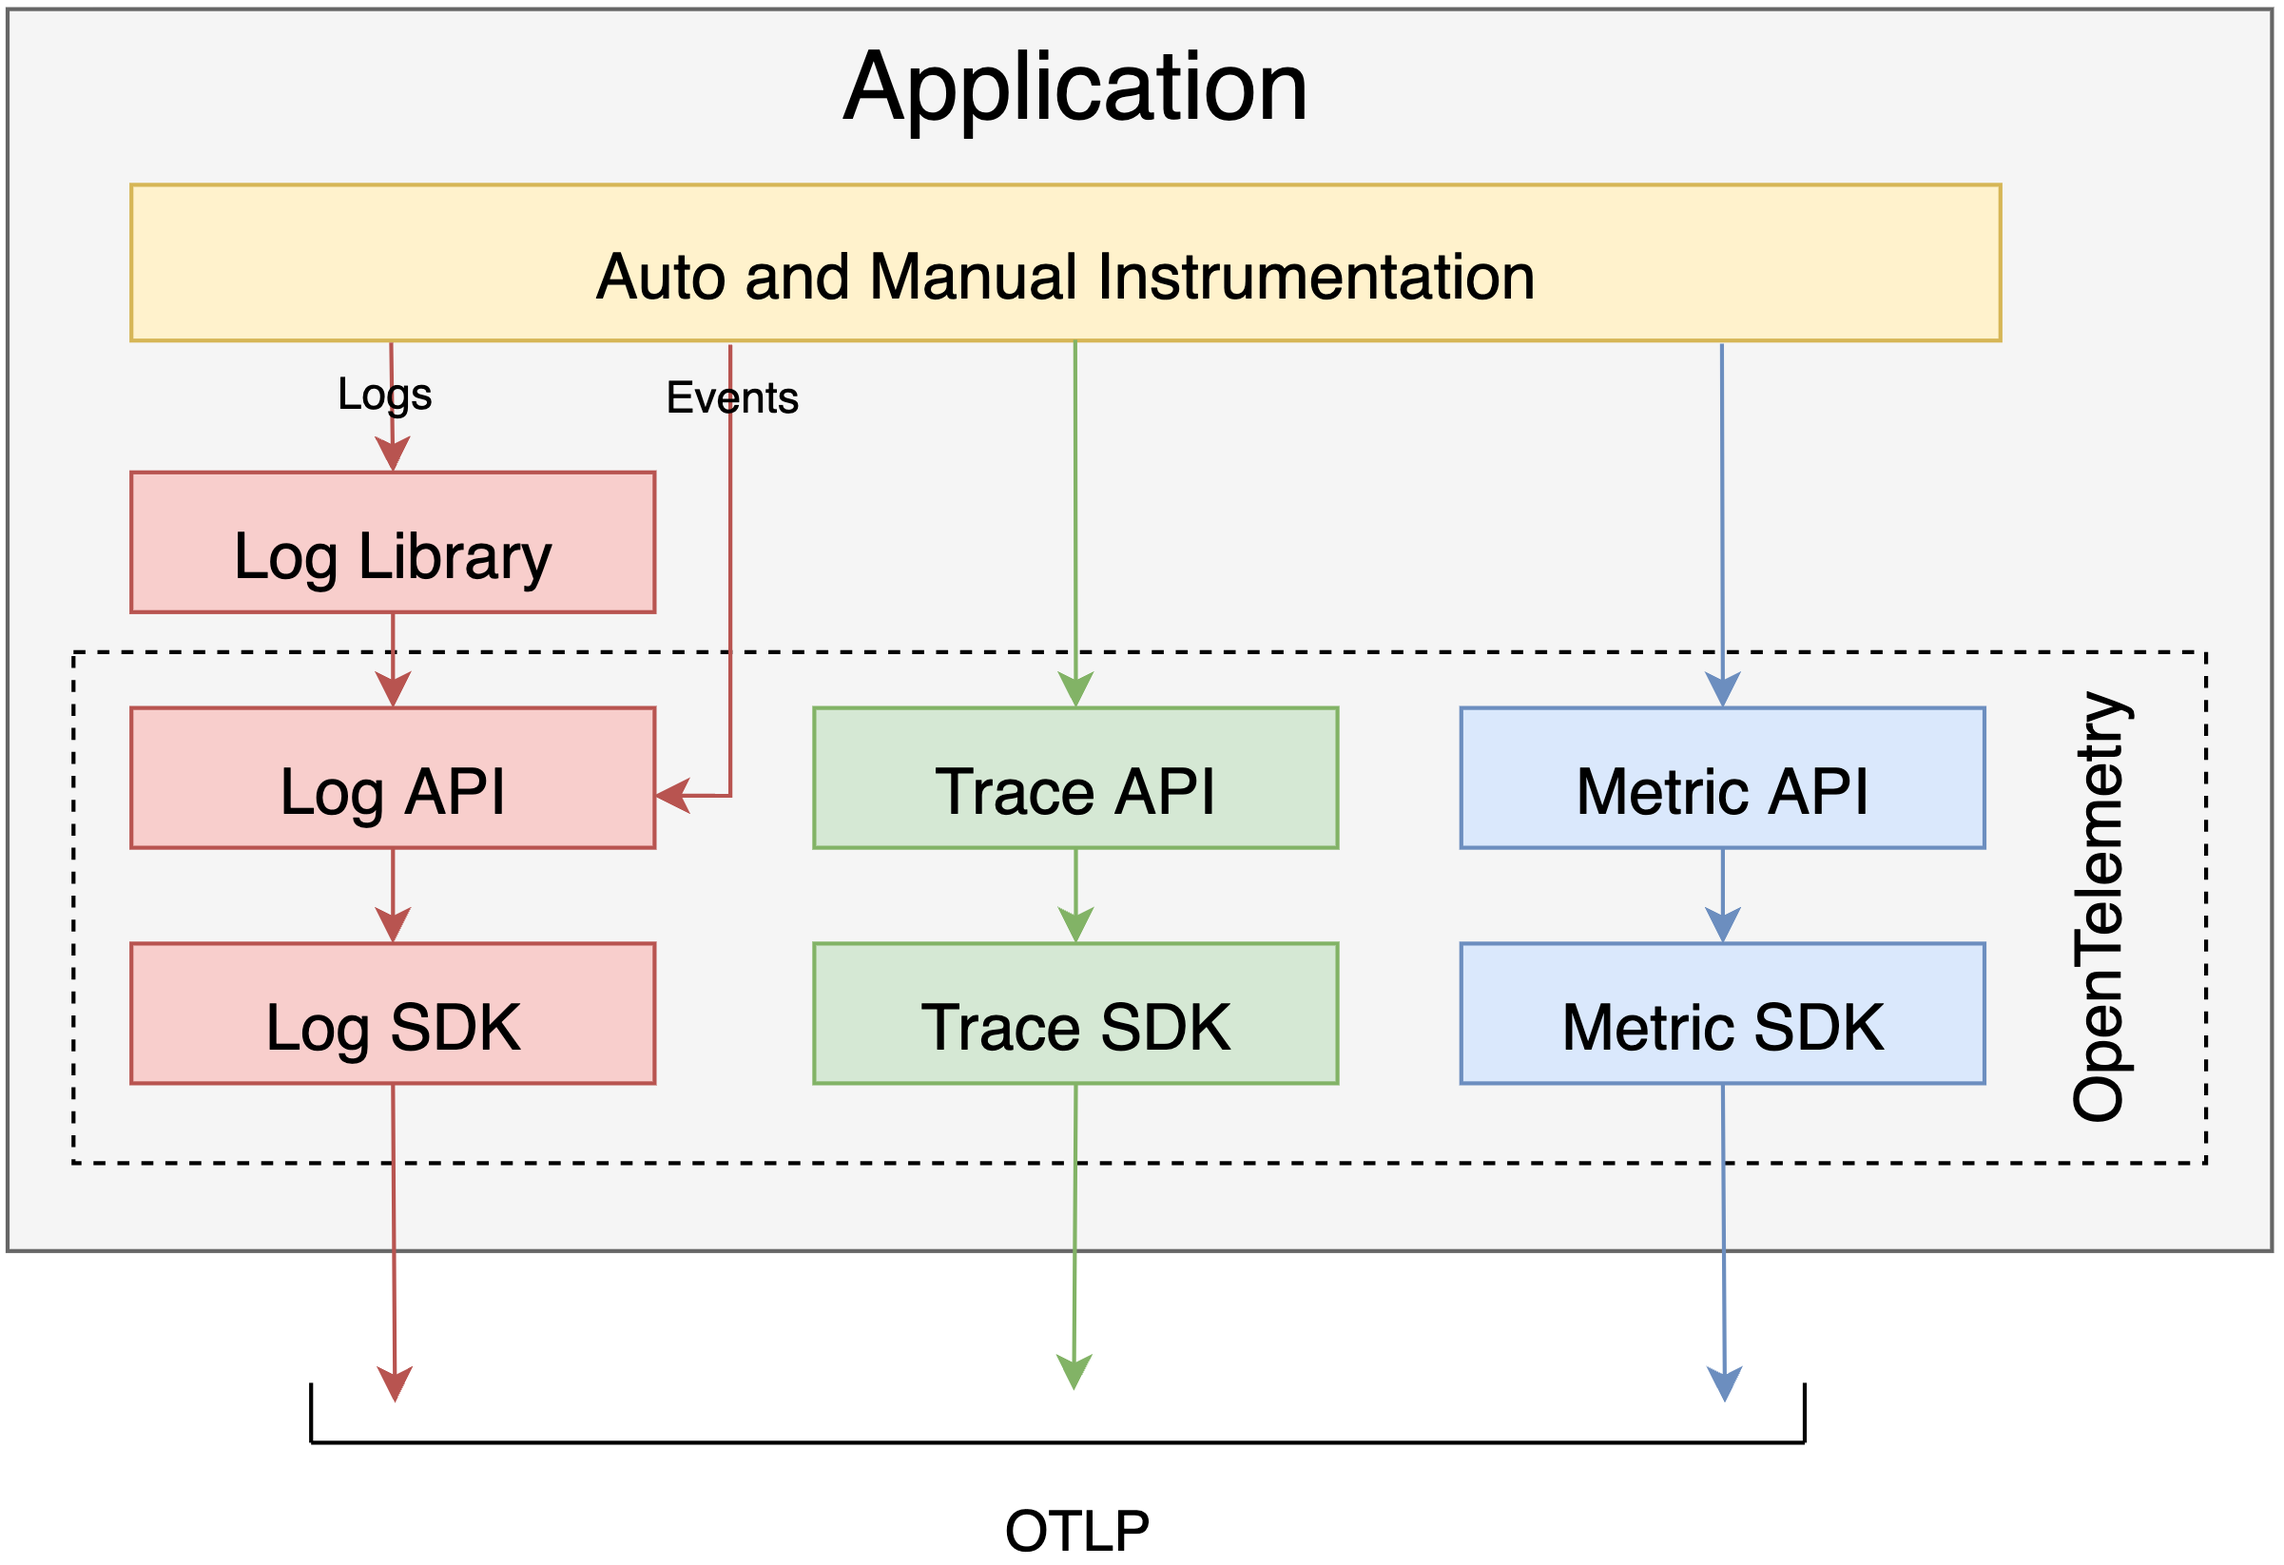
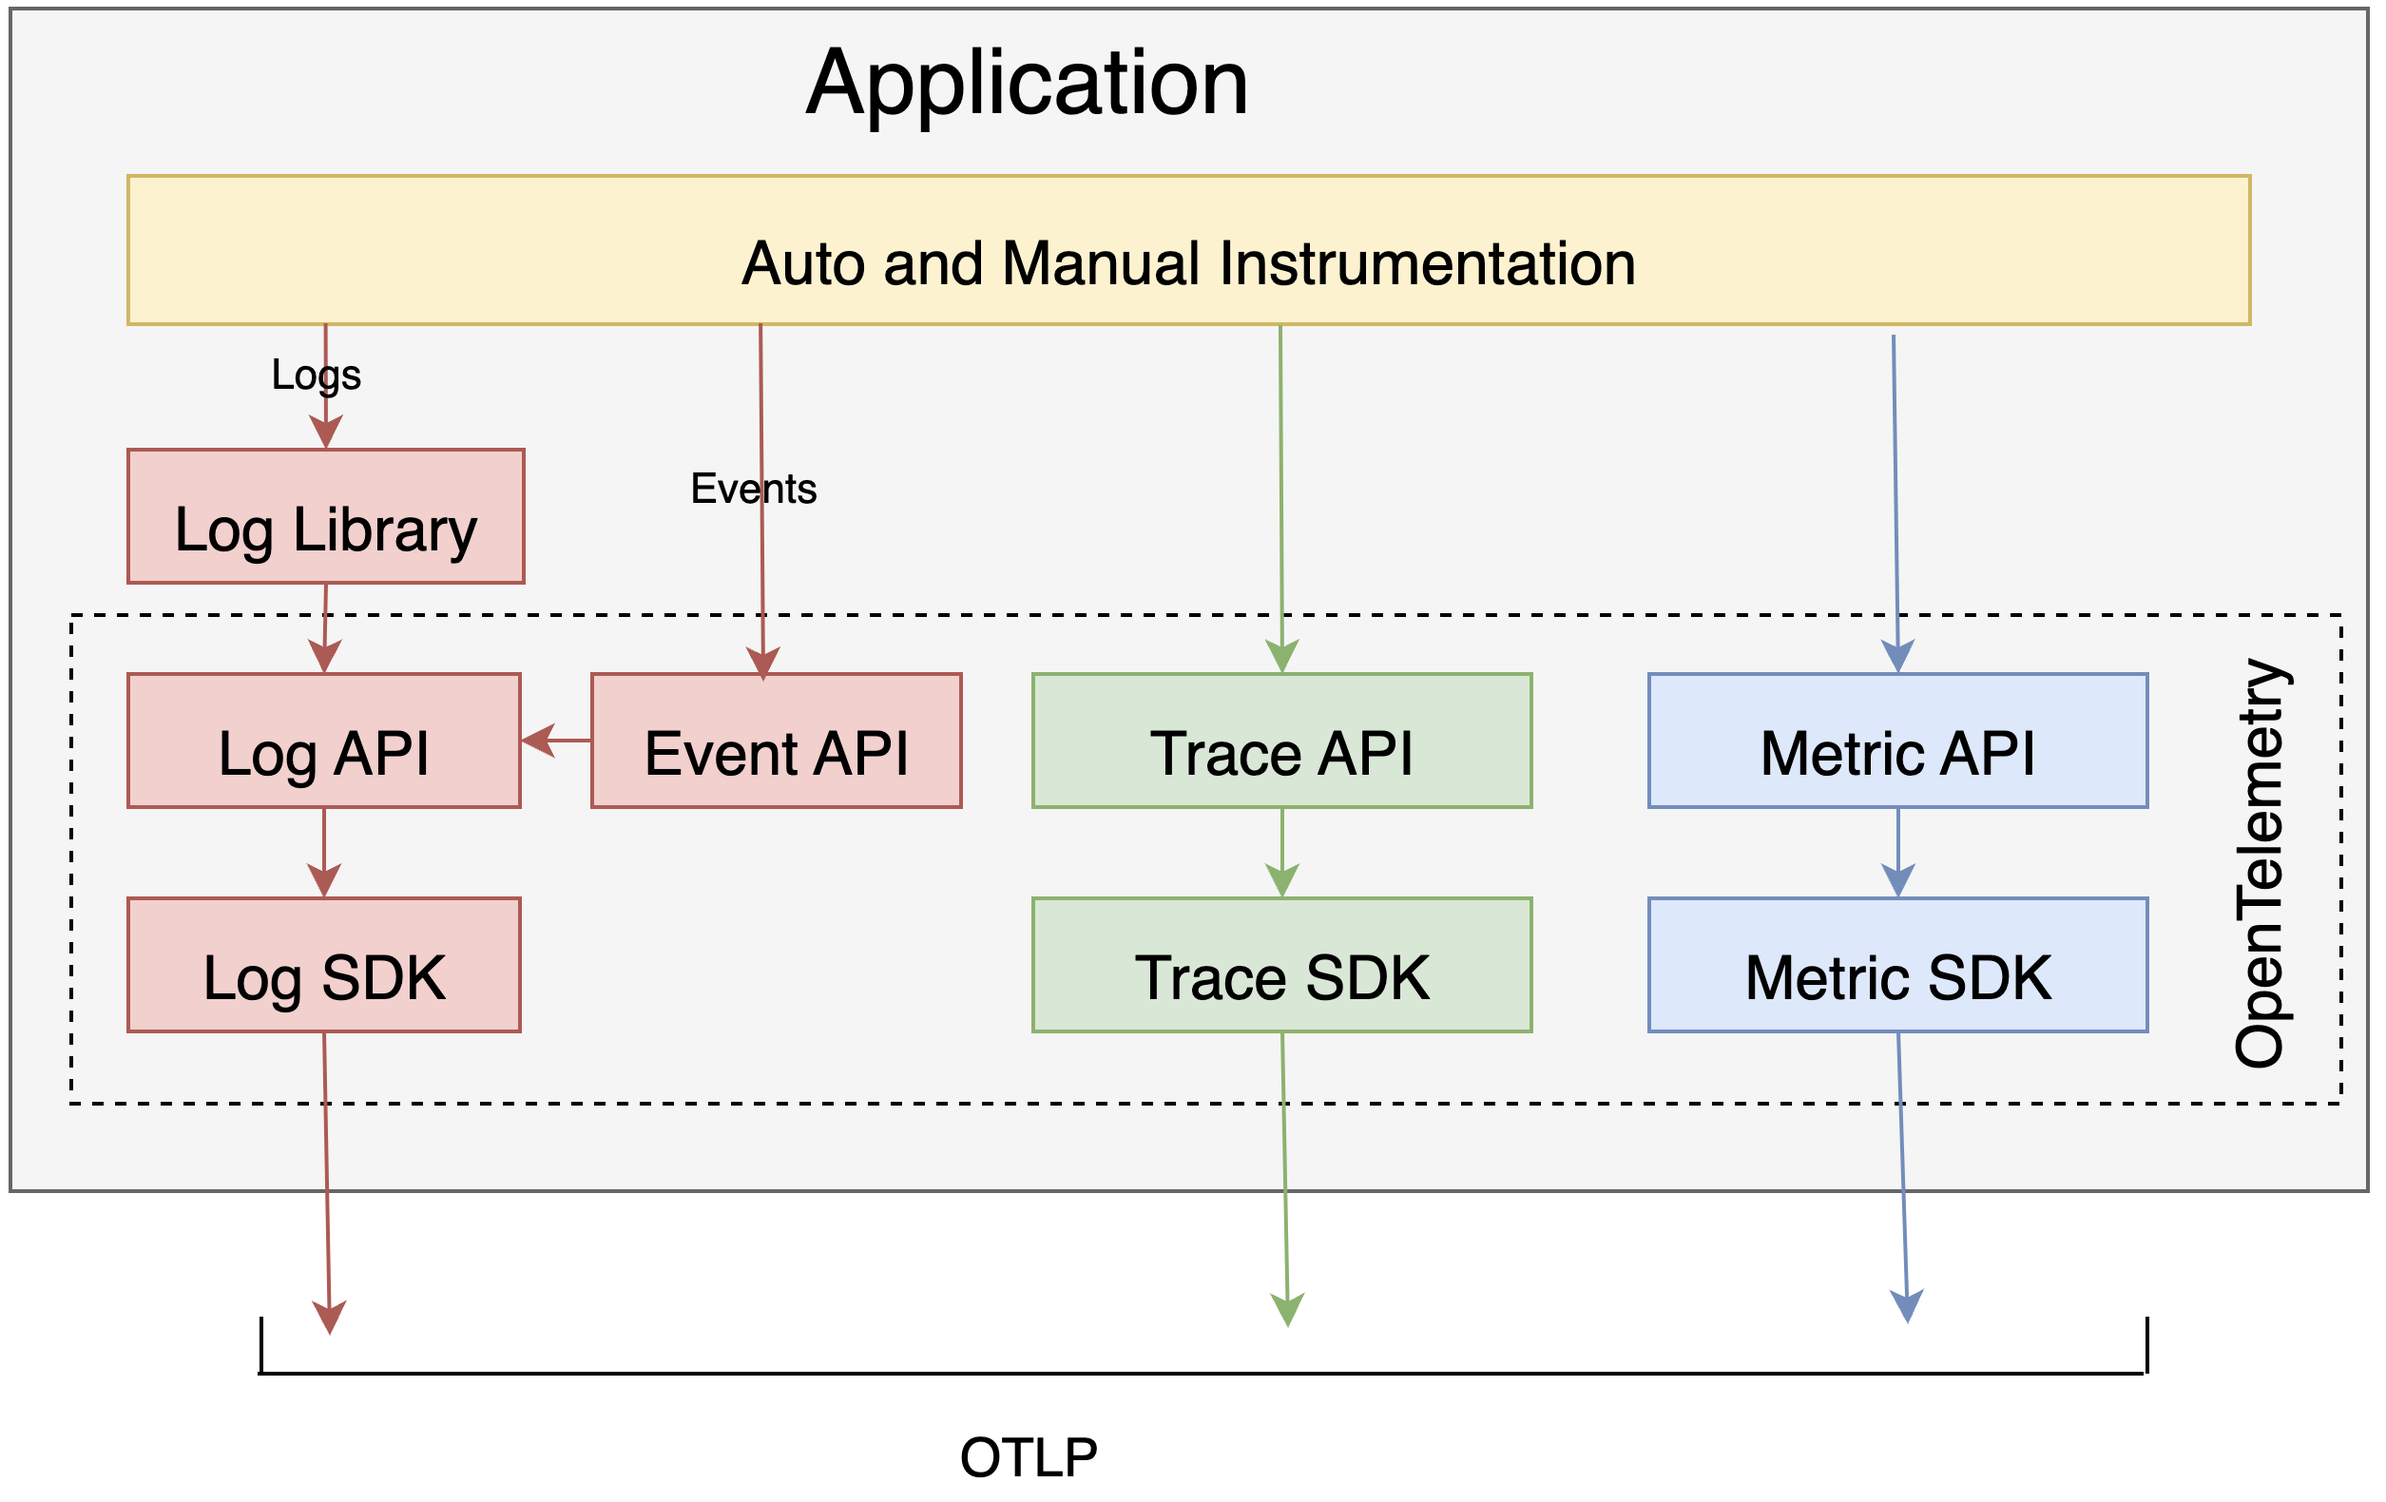
Split out Event API from Log API (#2941)
Resolves #2917.

Depends on #2940.

diff --git a/specification/logs/api.md b/specification/logs/api.md
@@ -1,4 +1,4 @@
-# Events and Logs API Interface
+# Logs API Interface
 
 **Status**: [Experimental](../document-status.md)
 
@@ -14,7 +14,6 @@
     + [Get a Logger](#get-a-logger)
 - [Logger](#logger)
   * [Logger operations](#logger-operations)
-    + [Emit Event](#emit-event)
     + [Emit LogRecord](#emit-logrecord)
 - [LogRecord](#logrecord)
 - [Usage](#usage)
@@ -26,20 +25,19 @@
 
 </details>
 
-The Events and Logs API consist of these main classes:
+The Logs API consist of these main classes:
 
 * LoggerProvider is the entry point of the API. It provides access to Loggers.
 * Logger is the class responsible for
-  creating [Events](./semantic_conventions/events.md)
-  and [Logs](./data-model.md#log-and-event-record-definition) as LogRecords.
+  emitting [Logs](./data-model.md#log-and-event-record-definition) as
+  LogRecords.
 
 LoggerProvider/Logger are analogous to TracerProvider/Tracer.
 
 ```mermaid
 graph TD
     A[LoggerProvider] -->|Get| B(Logger)
-    B --> C(Event)
-    B --> D(Log)
+    B --> C(Log)
 ```
 
 ## LoggerProvider
@@ -91,12 +89,9 @@ produced by this library.
 the scope has a version (e.g. a library version). Example value: 1.0.0.
 - `schema_url` (optional): Specifies the Schema URL that should be recorded in
 the emitted telemetry.
-- `event_domain` (optional): Specifies the domain for the Events emitted, which
-  MUST be added as an attribute with the key `event.domain`
-  to [emitted Events](#emit-event).
 - `include_trace_context` (optional): Specifies whether the Trace Context should
-automatically be passed on to the Events and Logs emitted by the Logger. This
-SHOULD be true by default.
+  automatically be passed on to the LogRecords emitted by the Logger. This
+  SHOULD be true by default.
 - `attributes` (optional): Specifies the instrumentation scope attributes to
 associate with emitted telemetry.
 
@@ -111,7 +106,7 @@ identifying fields are equal. The term *distinct* applied to Loggers describes
 instances where at least one identifying field has a different value.
 
 Implementations MUST NOT require users to repeatedly obtain a Logger again with
-the same name+version+schema_url+event_domain+include_trace_context+attributes
+the same name+version+schema_url+include_trace_context+attributes
 to pick up configuration changes. This can be achieved either by allowing to
 work with an outdated configuration or by ensuring that new configuration
 applies also to previously returned Loggers.
@@ -120,7 +115,7 @@ Note: This could, for example, be implemented by storing any mutable
 configuration in the `LoggerProvider` and having `Logger` implementation objects
 have a reference to the `LoggerProvider` from which they were obtained.
 If configuration must be stored per-Logger (such as disabling a certain `Logger`),
-the `Logger` could, for example, do a look-up with its name+version+schema_url+event_domain+include_trace_context+attributes
+the `Logger` could, for example, do a look-up with its name+version+schema_url+include_trace_context+attributes
 in a map in the `LoggerProvider`, or the `LoggerProvider` could maintain a registry
 of all returned `Logger`s and actively update their configuration if it changes.
 
@@ -130,7 +125,7 @@ the emitted data format is capable of representing such association.
 
 ## Logger
 
-The `Logger` is responsible for emitting Events and Logs.
+The `Logger` is responsible for emitting `LogRecord`s
 
 Note that `Logger`s should not be responsible for configuration. This should be
 the responsibility of the `LoggerProvider` instead.
@@ -138,24 +133,6 @@ the responsibility of the `LoggerProvider` instead.
 ### Logger operations
 
 The Logger MUST provide functions to:
-
-#### Emit Event
-
-Emit a `LogRecord` representing an Event to the processing pipeline.
-
-This function MAY be named `logEvent`.
-
-**Parameters:**
-
-* `name` - the Event name. This argument MUST be recorded as a `LogRecord`
-  attribute with the key `event.name`. Care MUST be taken by the implementation
-  to not override or delete this attribute while the Event is emitted to
-  preserve its identity.
-* `logRecord` - the [LogRecord](#logrecord) representing the Event.
-
-Events require the `event.domain` attribute. The API MUST not allow creating an
-Event if `event_domain` was not specified when
-the [Logger was obtained](#get-a-logger).
 
 #### Emit LogRecord
 
@@ -173,7 +150,7 @@ by end users or other instrumentation.
 
 ## LogRecord
 
-The API emits [Events](#emit-event) and [LogRecords](#emit-logrecord) using
+The API emits [LogRecords](#emit-logrecord) using
 the `LogRecord` [data model](data-model.md).
 
 A function receiving this as an argument MUST be able to set the following

diff --git a/specification/logs/event-api.md b/specification/logs/event-api.md
@@ -1,0 +1,69 @@
+# Events API Interface
+
+**Status**: [Experimental](../document-status.md)
+
+<details>
+<summary>Table of Contents</summary>
+
+<!-- Re-generate TOC with `markdown-toc --no-first-h1 -i` -->
+
+<!-- toc -->
+
+- [EventLogger](#eventlogger)
+  * [EventLogger Operations](#eventlogger-operations)
+    + [Create EventLogger](#create-eventlogger)
+    + [Emit Event](#emit-event)
+
+<!-- tocstop -->
+
+</details>
+
+The Event API offers convenience methods
+for [emitting LogRecords](./api.md#emit-logrecord) that conform
+to the [semantic conventions for Events](./semantic_conventions/events.md).
+
+## EventLogger
+
+The `EventLogger` is the entrypoint of the Event API, and is responsible for
+emitting `Events` as `LogRecords`.
+
+### EventLogger Operations
+
+The `EventLogger` MUST provide functions to:
+
+#### Create EventLogger
+
+New `EventLogger` instances are created though a constructor or factory method
+on `EventLogger`.
+
+**Parameters:**
+
+* `logger` - the delegate [Logger](./api.md#logger) used to emit `Events`
+  as `LogRecords`.
+* `event_domain` - the domain of emitted events, used to set the `event.domain`
+  attribute.
+
+#### Emit Event
+
+Emit a `LogRecord` representing an `Event` to the delegate `Logger`.
+
+This function MAY be named `logEvent`.
+
+**Parameters:**
+
+* `event_name` - the Event name. This argument MUST be recorded as a `LogRecord`
+  attribute with the key `event.name`. Care MUST be taken by the implementation
+  to not override or delete this attribute while the Event is emitted to
+  preserve its identity.
+* `logRecord` - the [LogRecord](./api.md#logrecord) representing the Event.
+
+**Implementation Requirements:**
+
+The implementation MUST [emit](./api.md#emit-logrecord) the `logRecord` to
+the `logger` specified when [creating the EventLogger](#create-eventlogger)
+after making the following changes:
+
+* The `event_domain` specified
+  when [creating the EventLogger](#create-eventlogger) MUST be set as
+  the `event.domain` attribute on the `logRecord`.
+* The `event_name` MUST be set as the `event.name` attribute on the `logRecord`.

diff --git a/specification/logs/README.md b/specification/logs/README.md
@@ -157,8 +157,10 @@ Given the above state of the logging space we took the following approach:
   features than what is defined in OpenTelemetry. It is NOT a goal of
   OpenTelemetry to ship a feature-rich logging library.
 
-- OpenTelemetry defines an API for [emitting Events](./api.md#emit-event).
-  Application developers are encouraged to call this API directly.
+- OpenTelemetry defines an API for [emitting Events](./event-api.md). The API
+  consists of convenience methods which delegate to the API
+  for [emitting LogRecords](./api.md#emit-logrecord). Application developers are
+  encouraged to call this API directly.
 
 - OpenTelemetry defines an [SDK](./sdk.md) implementation of the [API](./api.md),
   which enables configuration of [processing](./sdk.md#logrecordprocessor)

diff --git a/specification/logs/semantic_conventions/exceptions.md b/specification/logs/semantic_conventions/exceptions.md
@@ -3,8 +3,8 @@
 **Status**: [Experimental](../../document-status.md)
 
 This document defines semantic conventions for recording exceptions on
-[logs](../api.md#emit-logrecord) and [events](../api.md#emit-event) emitted
-through the [Logger API](../api.md#logger).
+[logs](../api.md#emit-logrecord) and [events](../event-api.md#emit-event)
+emitted through the [Logger API](../api.md#logger).
 
 <!-- toc -->
 

diff --git a/CHANGELOG.md b/CHANGELOG.md
@@ -18,6 +18,8 @@ release.
 - Move `event.domain` from InstrumentationScope attributes to LogRecord
   attributes.
   ([#2940](https://github.com/open-telemetry/opentelemetry-specification/pull/2940))
+- Split out Event API from Log API
+  ([#2941](https://github.com/open-telemetry/opentelemetry-specification/pull/2941))
 
 ### Resource
 
